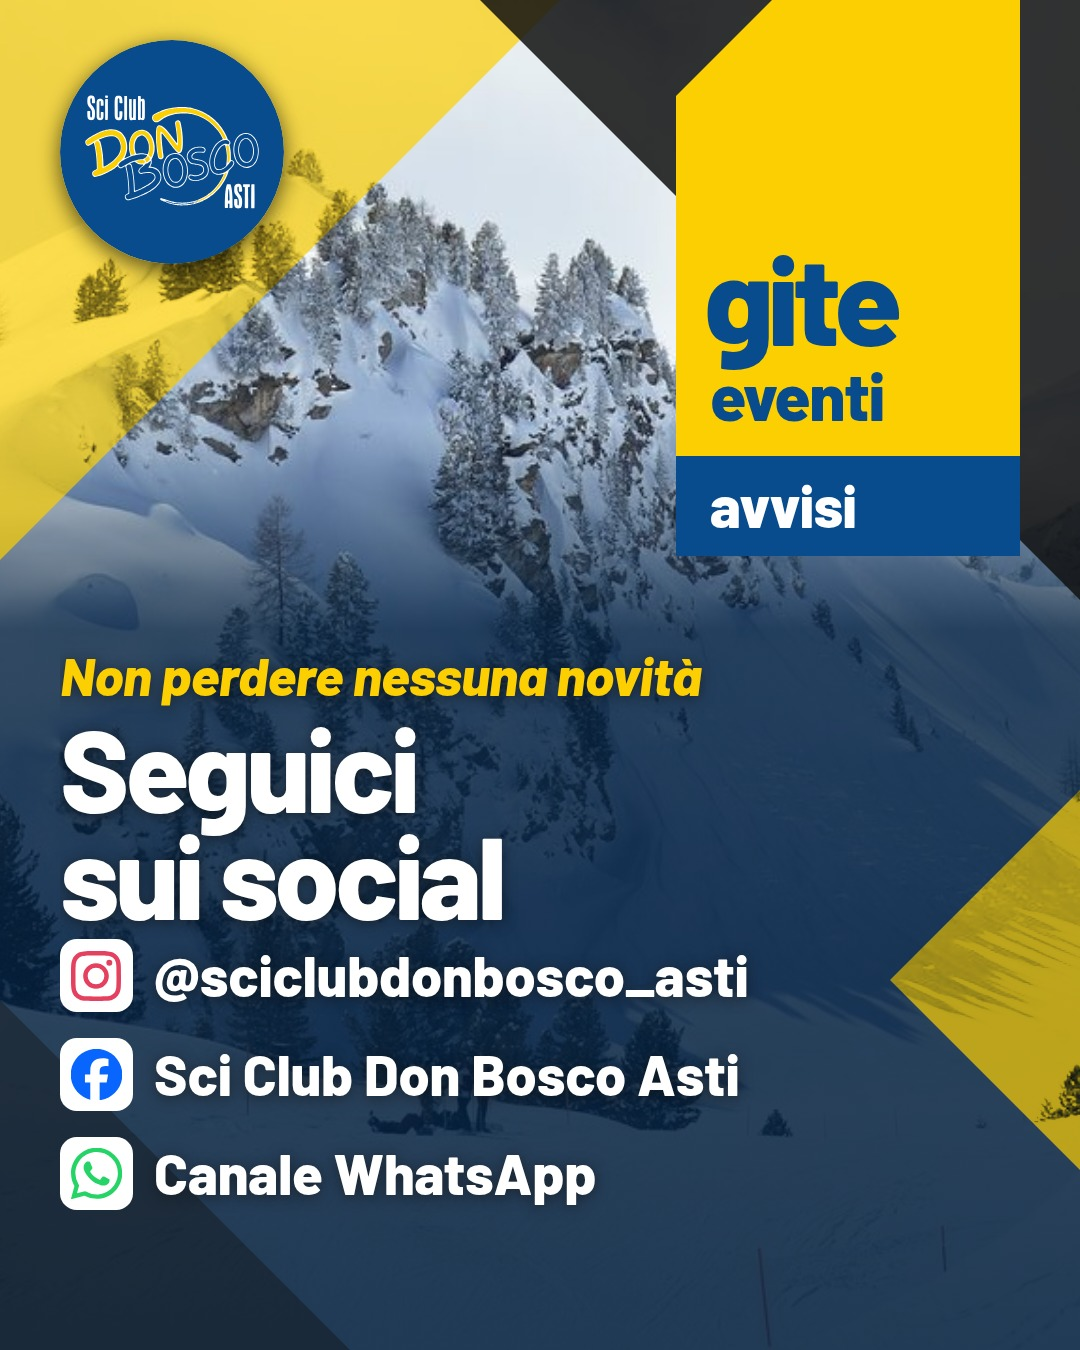
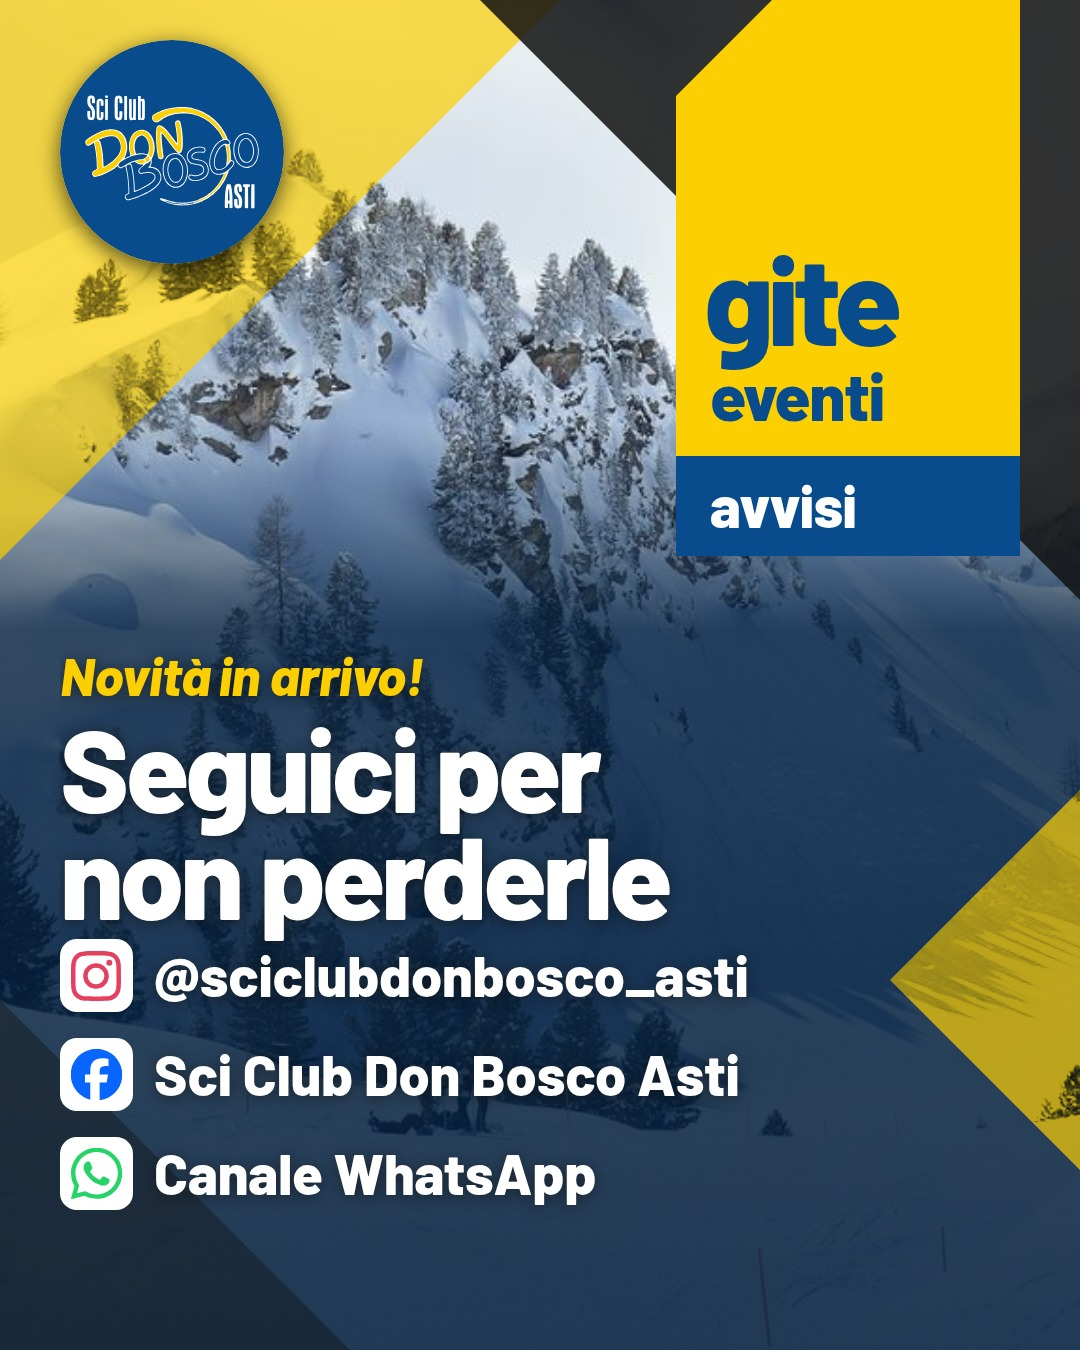
feat(grafica): frecce di scorrimento nel carosello della presciistica e ultima pagina sulle novità in arrivo
Le prime tre pagine hanno una linguetta gialla «Scorri» con tre frecce, appesa al bordo destro.
L'ultima pagina ricorda di seguire il club per le novità in arrivo; il testo per Instagram è
aggiornato di conseguenza.

Changed region(s): [[0.0611, 0.56, 0.6417, 0.7156], [0.1222, 0.4667, 0.6722, 0.5289]]

diff --git a/grafica/presciistica-carosello/sorgenti/carosello.html b/grafica/presciistica-carosello/sorgenti/carosello.html
@@ -16,6 +16,10 @@
     .sk .fatti p.dove .tassello { flex: none; width: 1.3em; height: 1.3em; border-radius: .3em; background: #fff; display: grid; place-items: center; margin-right: .1em; }
     .sk .fatti p.dove .tassello i { display: block; width: .9em; height: .9em; background: var(--c); -webkit-mask: var(--m) center / contain no-repeat; mask: var(--m) center / contain no-repeat; }
     .sk .fatti.social { gap: 26px; margin-top: 12px; }
+    /* Invito a scorrere: una linguetta gialla appesa al bordo destro, con l'angolo tagliato come la tessera. */
+    .sk .scorri { position: absolute; right: 0; bottom: 40px; width: 240px; padding: 16px 30px 18px 44px; background: #FCCF02; color: #084C8D;
+      clip-path: polygon(28px 0, 100% 0, 100% 100%, 0 100%, 0 28px); font-size: 42px; font-weight: 800; line-height: 1; letter-spacing: -.01em; }
+    .sk .scorri svg { display: block; width: 150px; height: 44px; margin-top: 8px; }
   </style>
 </head>
 <body>
@@ -34,6 +38,10 @@
     const NOVITA = `<div class="tessera"><b data-fit style="font-size:124px">gite</b>
       <span data-fit style="font-size:66px">eventi</span><em data-fit style="font-size:58px">avvisi</em></div>`;
 
+    // Sulle pagine che hanno un seguito: tre frecce che dicono di scorrere.
+    const SCORRI = `<div class="scorri">Scorri<svg viewBox="0 0 150 44" aria-hidden="true"><path d="M8 6l16 16L8 38M58 6l16 16-16 16M108 6l16 16-16 16"
+      fill="none" stroke="currentColor" stroke-width="9" stroke-linecap="round" stroke-linejoin="round"/></svg></div>`;
+
     // Gancio, titolo e dati con la stessa struttura di postK().
     const text = (hook, title, rows, cls = "") => `<div class="testo" data-adatta=".6"><div class="gancio">${hook}</div>
       <div class="tit" data-cede><div data-righe="2" style="--t:116px">${title}</div></div>
@@ -42,14 +50,14 @@
     const social = (name, colour, label) => `<p class="dove"><span class="tassello"><i style="--c:${colour};--m:url(../../video-stagione/assets/social/${name}.svg)"></i></span><span>${label}</span></p>`;
 
     const PAGES = [
-      () => bgK({ giallo: true, foto: PALESTRA, pos: "50% 100%", zoom: 1.2 }, OGNI,
+      () => bgK({ giallo: true, foto: PALESTRA, pos: "50% 100%", zoom: 1.2 }, OGNI + SCORRI,
         text("Alzati dal divano!", "Ginnastica Presciistica", [row("Ci vediamo *tutte le settimane*\nogni mercoledì alle *19:30*"), LUOGO]), enrolments()),
-      () => bgK({ giallo: true, foto: PALESTRA, pos: "86% 100%", zoom: 1.2 }, FINO,
+      () => bgK({ giallo: true, foto: PALESTRA, pos: "86% 100%", zoom: 1.2 }, FINO + SCORRI,
         text("Tutte le settimane", "In forma<br>per la neve", [row("Tutti i mercoledì fino al *13 gennaio*\n(escluso periodo natalizio)"), LUOGO]), enrolments()),
-      () => bgK({ giallo: true, foto: PALESTRA, pos: "22% 100%", zoom: 1.2 }, OGNI,
+      () => bgK({ giallo: true, foto: PALESTRA, pos: "22% 100%", zoom: 1.2 }, OGNI + SCORRI,
         text("Per partecipare", "Riservata<br>ai soci", [row("*Tesserati e assicurati* allo Sci Club\nDon Bosco Asti"), LUOGO]), enrolments()),
       () => bgK({ giallo: true, foto: MONTAGNA, pos: "50% 40%" }, NOVITA,
-        text("Non perdere nessuna novità", "Seguici<br>sui social", [
+        text("Novità in arrivo!", "Seguici per<br>non perderle", [
           social("instagram", "#E4405F", "@sciclubdonbosco_asti"),
           social("facebook", "#0866FF", "Sci Club Don Bosco Asti"),
           social("whatsapp", "#25D366", "Canale WhatsApp"),

diff --git a/grafica/presciistica-carosello/README.md b/grafica/presciistica-carosello/README.md
@@ -2,7 +2,8 @@
 
 Quattro pagine 1080×1350 per Instagram e Facebook, da pubblicare in quest'ordine:
 `presciistica-1.jpg` (ogni mercoledì), `presciistica-2.jpg` (fino al 13 gennaio),
-`presciistica-3.jpg` (riservata ai soci) e `presciistica-4.jpg` (seguici sui social).
+`presciistica-3.jpg` (riservata ai soci) e `presciistica-4.jpg` (novità in arrivo: seguici). Le prime
+tre hanno in basso a destra la linguetta «Scorri» con le frecce.
 
 Le pagine sono disegnate con le funzioni del generatore dei post (`web/social-templates.js`), nella
 grafica K · Piani del post pubblicato su Facebook il 16/10/2026, con la stessa foto tagliata in tre
@@ -19,6 +20,6 @@ natalizio), alla Palestra Way Assauto di Asti.
 Attività riservata ai soci tesserati e assicurati. Iscrizioni in negozio o via mail:
 sciclubdonboscoasti@gmail.com
 
-Seguici per non perdere gite, eventi e avvisi: il canale WhatsApp è nel link in bio.
+Novità in arrivo: seguici per non perdere gite, eventi e avvisi! Il canale WhatsApp è nel link in bio.
 
 #sciclubdonbosco #sci #presciistica #asti
